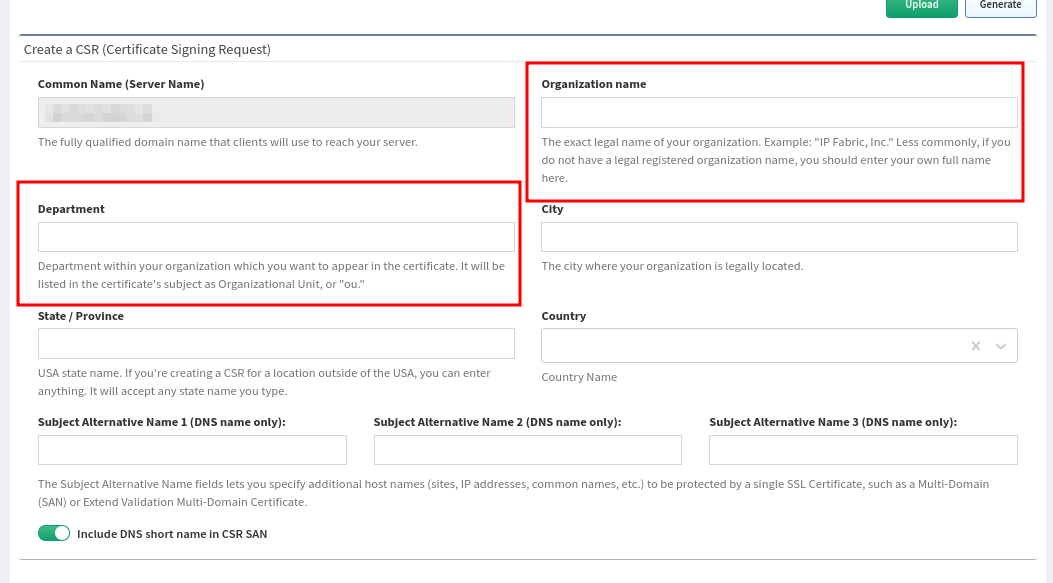
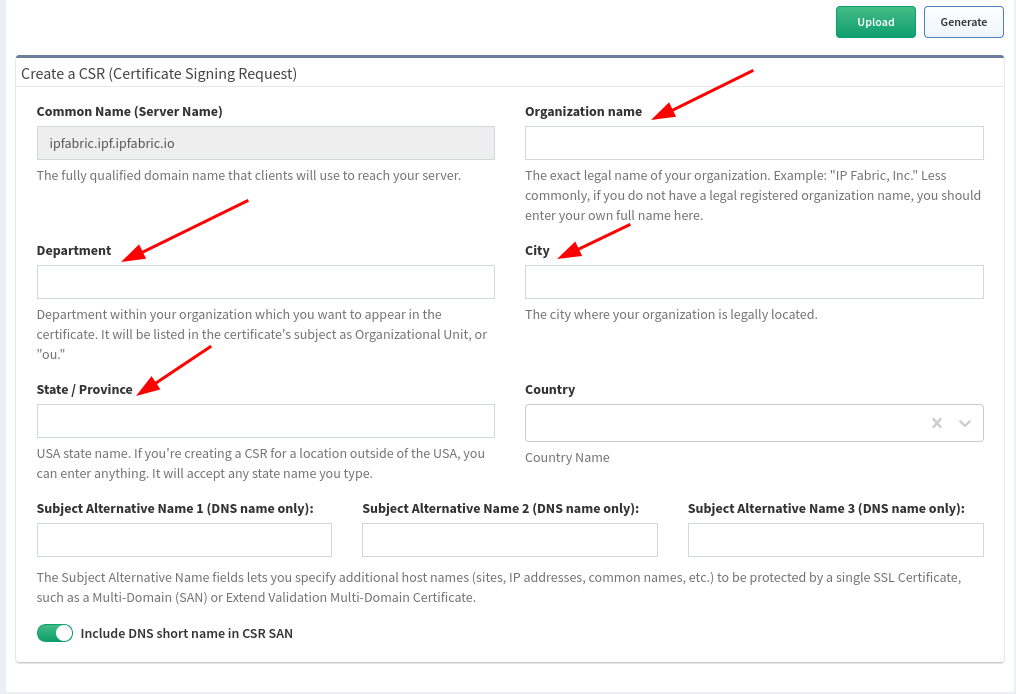
last mistake correction

diff --git a/docs/IP_Fabric_Settings/advanced/ipf_cert.md b/docs/IP_Fabric_Settings/advanced/ipf_cert.md
@@ -71,8 +71,8 @@ certification authority so check the vendor's documentation.
 
       ----- BEGIN base64root certificate END -----
     ```
-!!! info "Organization name & Department fields forbidden characters"
+!!! info "Fillable fields forbidden characters"
     
-    Fields "Organization name" and "Department" can contain only the following characters `A-Za-z0-9.,/-_@%^:=+`
+    Fields Organisation name, Department, City, State/Province can contain only the following characters `A-Za-z0-9.,/-_@%^:=+`
 
 ![Organization_and department_fields](org_dep_fields.png)
